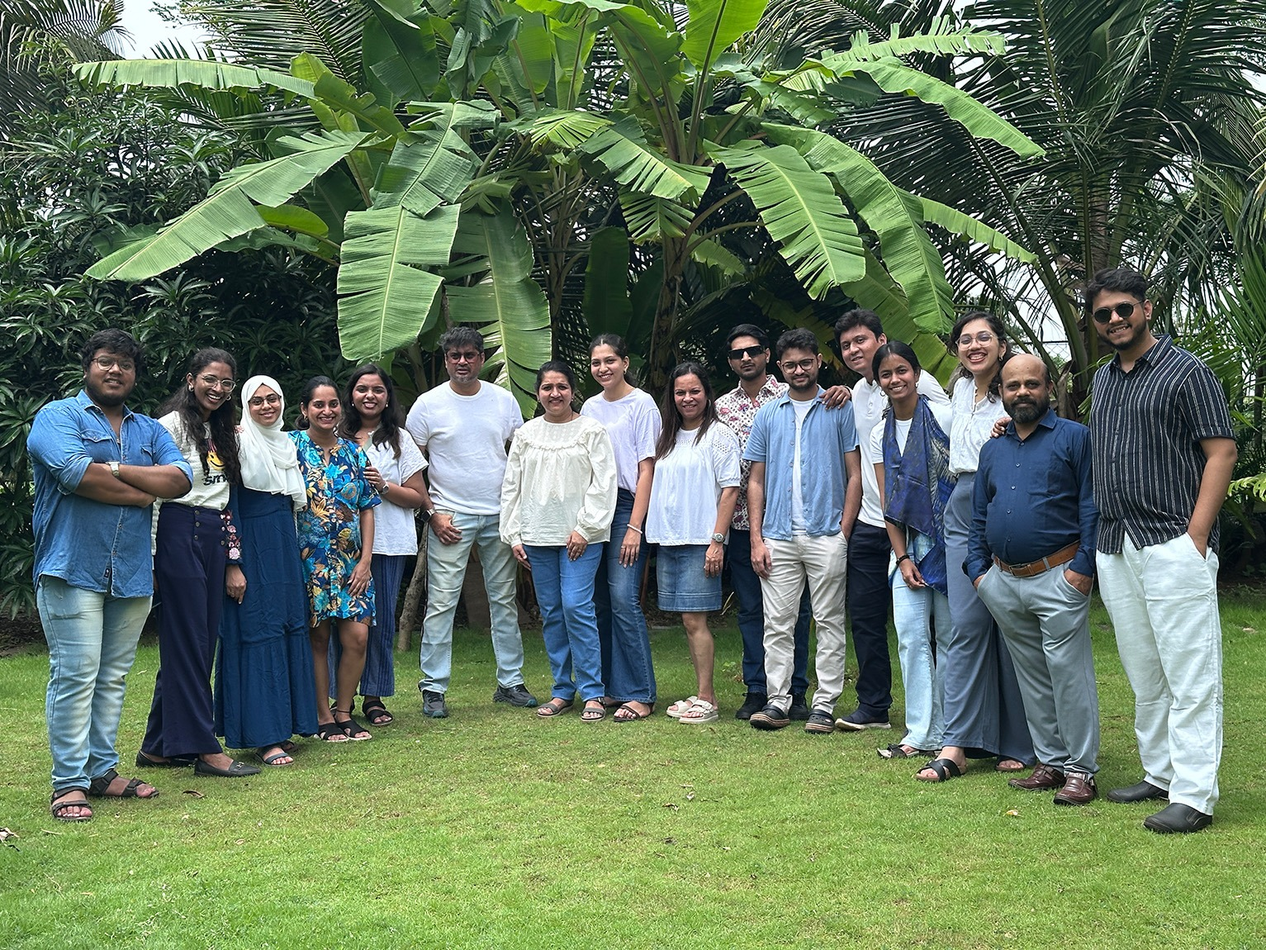
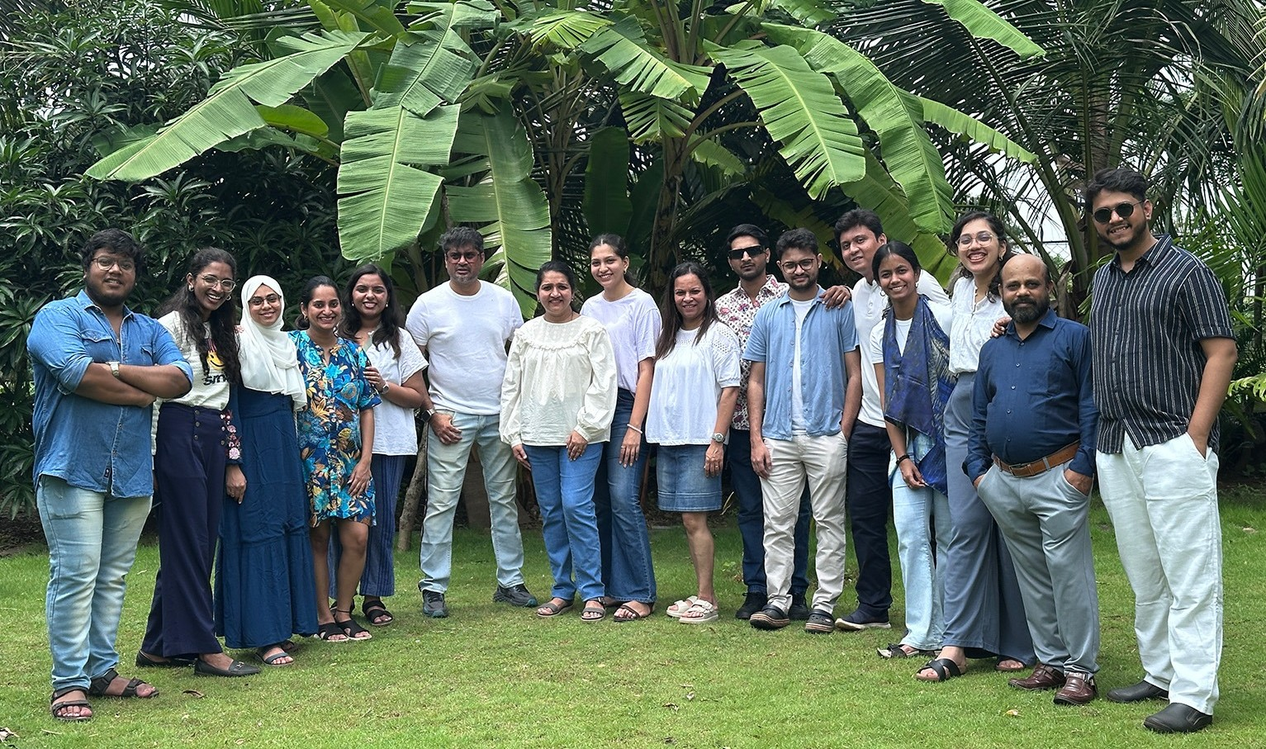
final changesss

diff --git a/events.html b/events.html
@@ -101,7 +101,7 @@
         <img 
           src="images/events/c2.jpeg" 
           alt="Arris Events - Team Celebration" 
-          class="hero-slider-item object-cover" 
+          class="hero-slider-item object-cover object-top" 
         />
         <img 
           src="images/events/Card 2_ Kayaking & Regatta.jpeg" 
@@ -503,19 +503,19 @@
       </h2>
       
       <div class="grid grid-cols-1 md:grid-cols-12 gap-6 mb-6">
-        <div class="md:col-span-6 rounded-2xl overflow-hidden" data-reveal-animation>
+        <div class="md:col-span-6 rounded-lg overflow-hidden" data-reveal-animation>
           <img src="images/events/Hero Card_ Employee of the Year (Spans 2 columns on desktop).png" alt="Annual Awards" class="w-full h-full object-cover" />
         </div>
-        <div class="md:col-span-3 rounded-2xl overflow-hidden" data-reveal-animation data-delay="1">
+        <div class="md:col-span-3 rounded-lg overflow-hidden" data-reveal-animation data-delay="1">
           <img src="images/events/Supporting Card 1_ Leadership Excellence.png" alt="Leadership Excellence" class="w-full h-full object-cover" />
         </div>
-        <div class="md:col-span-3 rounded-2xl overflow-hidden" data-reveal-animation data-delay="2">
+        <div class="md:col-span-3 rounded-lg overflow-hidden" data-reveal-animation data-delay="2">
           <img src="images/events/Supporting Card 2_ Team of the Quarter Dinner.png" alt="Team Dinner" class="w-full h-full object-cover" />
         </div>
       </div>
       
       <div class="grid grid-cols-1 md:grid-cols-12 gap-6">
-        <div class="md:col-span-4 rounded-2xl overflow-hidden" data-reveal-animation>
+        <div class="md:col-span-4 rounded-lg overflow-hidden" data-reveal-animation>
           <img src="images/events/Supporting Card 1_ Leadership Excellence (1).png" alt="Recognition" class="w-full h-full object-cover" />
         </div>
       </div>
@@ -527,15 +527,15 @@
   <!-- ========================================================================= -->
   <section class="bg-arris-cream py-16 sm:py-24 px-6 sm:px-12 xl:px-[97px] border-t border-black/5">
     <div class="max-w-[1920px] mx-auto">
-      <h2 class="text-black t-heading font-[300] leading-snug mb-2" data-reveal-text>
+      <h2 class="text-black t-heading font-[300] leading-snug mb-12 sm:mb-16" data-reveal-text>
         Christmas
       </h2>
       
       <div class="grid grid-cols-1 md:grid-cols-3 gap-6">
-        <div class="rounded-2xl overflow-hidden" data-reveal-animation>
+        <div class="md:col-span-2 rounded-lg overflow-hidden" data-reveal-animation>
           <img src="images/events/Hero Card_ Employee of the Year (Spans 2 columns on desktop) (1).png" alt="Christmas Celebration" class="w-full h-full object-cover" />
         </div>
-        <div class="rounded-2xl overflow-hidden" data-reveal-animation data-delay="1">
+        <div class="md:col-span-1 rounded-lg overflow-hidden" data-reveal-animation data-delay="1">
           <img src="images/events/Supporting Card 1_ Leadership Excellence (2).png" alt="Christmas Decor" class="w-full h-full object-cover" />
         </div>
       </div>
@@ -547,21 +547,38 @@
   <!-- ========================================================================= -->
   <section class="bg-arris-cream py-16 sm:py-24 px-6 sm:px-12 xl:px-[97px] border-t border-black/5">
     <div class="max-w-[1920px] mx-auto">
-      <h2 class="text-black t-heading font-[300] leading-snug mb-2" data-reveal-text>
+      <h2 class="text-black t-heading font-[300] leading-snug mb-12 sm:mb-16" data-reveal-text>
         Company Retreats & Annual Trips
       </h2>
       
-      <div class="w-full rounded-2xl overflow-hidden mb-6" data-reveal-animation>
-        <img src="images/events/Featured Trip Showcase Layout_ 1 Wide Panoramic Slot + 3 Multi-Aspect Cards.png" alt="Annual Trip" class="w-full h-auto block" />
+      <!-- Row 1: Wide Image -->
+      <div class="w-full rounded-lg overflow-hidden mb-6" data-reveal-animation>
+        <img src="images/events/Card 2_ Kayaking & Regatta.jpeg" alt="Annual Trip - Group Activity" class="w-full h-auto block" />
+      </div>
+
+      <!-- Row 2: Side-by-side -->
+      <div class="grid grid-cols-1 md:grid-cols-2 gap-6 mb-6">
+        <div class="rounded-lg overflow-hidden" data-reveal-animation>
+          <img src="images/events/Card 1_ Campfire Acoustic Night.png" alt="Annual Trip - Fun Moment" class="w-full h-full object-cover" />
+        </div>
+        <div class="rounded-lg overflow-hidden" data-reveal-animation data-delay="1">
+          <img src="images/events/Card 2_ Kayaking & Regatta1.png" alt="Annual Trip - Team" class="w-full h-full object-cover" />
+        </div>
+      </div>
+
+      <!-- Row 3: Side-by-side (New Images) -->
+      <div class="grid grid-cols-1 md:grid-cols-2 gap-6 mb-6">
+        <div class="rounded-lg overflow-hidden" data-reveal-animation>
+          <img src="images/events/IMG_8460 1.png" alt="Annual Trip - Group" class="w-full h-full object-cover" />
+        </div>
+        <div class="rounded-lg overflow-hidden" data-reveal-animation data-delay="1">
+          <img src="images/events/IMG_8467 1.png" alt="Annual Trip - Red Building" class="w-full h-full object-cover" />
+        </div>
       </div>
       
-      <div class="grid grid-cols-1 md:grid-cols-2 gap-6">
-        <div class="rounded-2xl overflow-hidden" data-reveal-animation>
-          <img src="images/events/Card 1_ Campfire Acoustic Night.png" alt="Campfire" class="w-full h-full object-cover" />
-        </div>
-        <div class="rounded-2xl overflow-hidden" data-reveal-animation data-delay="1">
-          <img src="images/events/Card 2_ Kayaking & Regatta.jpeg" alt="Kayaking" class="w-full h-full object-cover" />
-        </div>
+      <!-- Row 4: Wide Panoramic (New Image) -->
+      <div class="w-full rounded-lg overflow-hidden" data-reveal-animation>
+        <img src="images/events/IMG_8454 1.png" alt="Annual Trip - Panoramic" class="w-full h-auto block" />
       </div>
     </div>
   </section>

diff --git a/about-arris.html b/about-arris.html
@@ -602,7 +602,7 @@
       <div class="flex flex-col-reverse lg:flex-row gap-8 lg:gap-12 items-start">
 
         <!-- Left: Image (Below text on mobile, Left on desktop) -->
-        <div class="w-full lg:w-[800px] overflow-hidden rounded-2xl lg:rounded-sm shadow-sm" data-reveal-animation>
+        <div class="w-full lg:w-[700px] overflow-hidden rounded-2xl lg:rounded-sm shadow-sm" data-reveal-animation>
           <img
             src="images/architecture/Rectangle 66.jpeg"
             alt="Arched Corridor Mural"
@@ -635,14 +635,14 @@
       <div class="flex flex-col lg:flex-row gap-8 lg:gap-16 xl:gap-24 items-start">
         
         <!-- Left Column: Title -->
-        <div class="w-full lg:w-[32%] xl:w-[28%]" data-reveal-text>
+        <div class="w-full lg:w-[25%] xl:w-[22%]" data-reveal-text>
           <h2 class="text-white t-heading font-[300] leading-snug tracking-normal">
             Design<br class="hidden sm:inline">Philosophy
           </h2>
         </div>
 
         <!-- Right Column: Paragraphs from Figma -->
-        <div class="w-full lg:w-[68%] xl:w-[72%] max-w-[960px] space-y-6 sm:space-y-8" data-reveal-text data-delay="1">
+        <div class="w-full lg:w-[75%] xl:w-[78%] max-w-[960px] space-y-6 sm:space-y-8" data-reveal-text data-delay="1">
           <p class="text-white/85 t-body font-[300] leading-[27px] sm:leading-[30px] tracking-normal">
             At Arris Architects, design begins with an understanding of context, purpose and the people who inhabit a space. We approach every project as an opportunity to look beyond the obvious, translating our clients&rsquo; aspirations into architecture that is thoughtful and enduring.
           </p>

diff --git a/meet-the-team.html b/meet-the-team.html
@@ -544,7 +544,7 @@
   <!-- ========================================================================= -->
   <!-- 2. OUR TEAM SECTION                                                       -->
   <!-- ========================================================================= -->
-  <section id="our-team" class="bg-arris-cream pt-16 sm:pt-24 pb-12 sm:pb-16 px-6 sm:px-12 xl:px-[97px]">
+  <section id="our-team" class="bg-arris-cream pt-16 sm:pt-24 pb-0 px-6 sm:px-12 xl:px-[97px]">
     <div class="max-w-[1920px] mx-auto text-center">
       <h2 class="text-black t-heading font-[300] leading-snug mb-8 sm:mb-12" data-reveal-text>Our Team</h2>
       <div class="w-full overflow-hidden rounded-2xl" data-reveal-animation>
@@ -560,7 +560,7 @@
   <!-- ========================================================================= -->
   <!-- 3. CULTURE SECTION                                                        -->
   <!-- ========================================================================= -->
-  <section id="culture" class="bg-arris-cream py-16 sm:py-20 lg:py-24 px-6 sm:px-12 xl:px-[97px]">
+  <section id="culture" class="bg-arris-cream pt-16 sm:pt-20 lg:pt-24 pb-16 sm:pb-20 lg:pb-24 px-6 sm:px-12 xl:px-[97px]">
     <div class="max-w-[1920px] mx-auto text-center">
       <h2 class="text-black t-heading font-[300] leading-snug tracking-normal mb-6 sm:mb-8" data-reveal-text>Culture</h2>
       <div data-reveal-text data-delay="1" class="space-y-4 sm:space-y-5 text-black t-body font-[300] leading-[27px] sm:leading-[27px] lg:leading-[30px] tracking-normal text-center max-w-[900px] mx-auto">

diff --git a/publications.html b/publications.html
@@ -87,7 +87,7 @@
       transition: opacity 1.2s cubic-bezier(0.19, 1, 0.22, 1), transform 0.6s cubic-bezier(0.19, 1, 0.22, 1) !important;
       cursor: pointer;
       width: 100%;
-      max-width: 300px;
+      max-width: 360px;
       margin-left: auto;
       margin-right: auto;
     }
@@ -618,7 +618,7 @@
   <!-- 2. PUBLICATIONS GRID                                                      -->
   <!-- ========================================================================= -->
   <section class="bg-arris-cream py-16 sm:py-20 lg:py-28 px-6 sm:px-12 xl:px-[97px]">
-    <div class="max-w-[1140px] mx-auto">
+    <div class="max-w-[1280px] mx-auto">
       <div class="grid grid-cols-1 sm:grid-cols-2 lg:grid-cols-3 gap-x-12 sm:gap-x-16 lg:gap-x-20 gap-y-16 sm:gap-y-20 lg:gap-y-24 justify-items-center">
 
           <!-- Card 1: Atlas of World Interior Design -->

diff --git a/insights-journal.html b/insights-journal.html
@@ -371,7 +371,7 @@
             <div class="absolute inset-0 z-10 bg-black/55 backdrop-blur-[2px] opacity-0 group-hover:opacity-100 transition-all duration-500 ease-out flex flex-col justify-center items-center p-6 text-center">
               <div class="w-full h-full border border-white/30 p-6 flex flex-col justify-center items-center gap-3 scale-95 group-hover:scale-100 transition-transform duration-500">
                 <span class="inline-flex items-center gap-1.5 text-xs tracking-widest uppercase text-white/80 font-[300] border-b border-white/60 pb-1 hover:border-white">
-                  View Project →
+                  View Insight →
                 </span>
               </div>
             </div>
